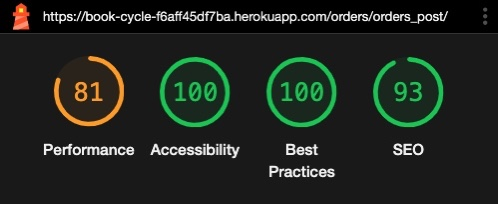
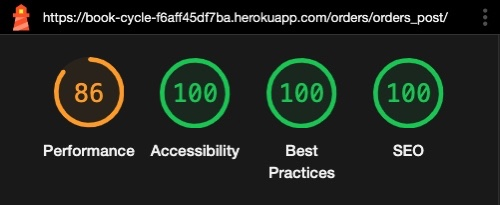
update Lighthouse images

diff --git a/TESTING.md b/TESTING.md
@@ -245,11 +245,11 @@ Initial Response time by Heroku, Stripe, Amazon AWS, as well as Google Fonts wer
 | `Add New Book` | desktop |  ![LH for Add New Book Page](testing_files/lh-add-book-desktop-light.jpeg) | ![LH for Add New Book Page](testing_files/lh-add-book-desktop-dark.jpeg) ||
 | `Edit Book` | mobile | ![LH for Edit Book Page](testing_files/lh-edit-book-mobile-light.jpeg) | ![LH for Edit Book Page](testing_files/lh-edit-book-mobile-dark.jpeg)|
 | `Edit Book` | desktop | ![LH for Edit Book Page](testing_files/lh-edit-book-desktop-light.jpeg) | ![LH for Edit Book Page](testing_files/lh-edit-book-desktop-dark.jpeg)|
-| `Orders to Post` | mobile |  ![LH for Orders to Post Page](testing_files/lh-orders-post-mobile-light.jpeg) |![LH for Orders to Post Page](testing_files/lh-orders-post-mobile-dark.jpeg) | Long data fields are truncated in <br>mobile view, which makes the 'focusable target' <br>unreadable by search engines.|
+| `Orders to Post` | mobile |  ![LH for Orders to Post Page](testing_files/lh-orders-post-mobile-light.jpeg) |![LH for Orders to Post Page](testing_files/lh-orders-post-mobile-dark.jpeg) | |
 | `Orders to Post` | desktop |  ![LH for Orders to Post Page](testing_files/lh-orders-post-desktop-light.jpeg) | ![LH for Orders to Post Page](testing_files/lh-orders-post-desktop-dark.jpeg) ||
-| `Orders for Collection` | mobile |  ![LH for Orders for Collection Page](testing_files/lh-orders-collection-mobile-light.jpeg) |![LH for Orders for Collection Page](testing_files/lh-orders-collection-mobile-dark.jpeg) | Long data fields are truncated in <br>mobile view, which makes the 'focusable target' <br>unreadable by search engines. |
+| `Orders for Collection` | mobile |  ![LH for Orders for Collection Page](testing_files/lh-orders-collection-mobile-light.jpeg) |![LH for Orders for Collection Page](testing_files/lh-orders-collection-mobile-dark.jpeg) | |
 | `Orders for Collection` | desktop |  ![LH for Orders for Collection Page](testing_files/lh-orders-collection-desktop-light.jpeg) |![LH for Orders for Collection Page](testing_files/lh-orders-collection-desktop-dark.jpeg) | |
-| `Completed Orders` | mobile |  ![LH for Completed Orders Page](testing_files/lh-completed-orders-mobile-light.jpeg) |![LH for Completed Orders Page](testing_files/lh-completed-orders-mobile-dark.jpeg) | Long data fields are truncated in <br>mobile view, which makes the 'focusable target' <br>unreadable by search engines. |
+| `Completed Orders` | mobile |  ![LH for Completed Orders Page](testing_files/lh-completed-orders-mobile-light.jpeg) |![LH for Completed Orders Page](testing_files/lh-completed-orders-mobile-dark.jpeg) | |
 | `Completed Orders` | desktop |  ![LH for Completed Orders Page](testing_files/lh-completed-orders-desktop-light.jpeg) |![LH for Completed Orders Page](testing_files/lh-completed-orders-desktop-dark.jpeg) | |
 | `Order Details` | mobile |  ![LH for Order Details Page](testing_files/lh-order-detail-mobile-light.jpeg) |![LH for Order Details Page](testing_files/lh-order-detail-mobile-dark.jpeg) | |
 | `Order Details` | desktop |  ![LH for Order Details Page](testing_files/lh-order-detail-desktop-light.jpeg) |![LH for Order Details Page](testing_files/lh-order-detail-desktop-dark.jpeg) | |
